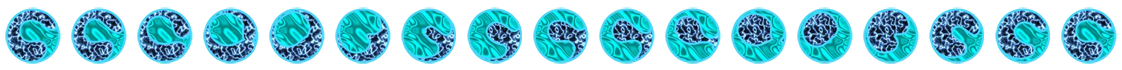
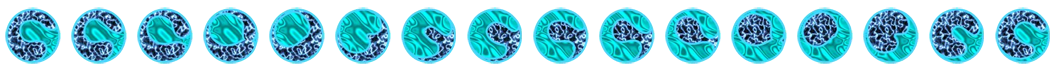
Arrumei umas coisas na animacao

diff --git a/src/Animation.cpp b/src/Animation.cpp
@@ -9,7 +9,7 @@ using std::string;
 Animation::Animation (
 	const string& filename,
 	int frame,
-	int framesize,
+	int fps,
 	int rows,
 	int cols,
 	bool matrix,
@@ -22,58 +22,42 @@ Animation::Animation (
 		frame = 0;
 	else
 		this->frame = float ( frame );
-	setFrameSize ( framesize );
+	this->fps = ((fps >= 1) ? fps : 1);
 	
 	update_ ();
 }
 
 void Animation::update ()
 {
-	float dt = float ( SDLBase::dt () ) / 1000;
-	
-	frame = ( ( frame + fps * dt ) - float (
-		( int ( frame + fps * dt ) / frameAmount() ) * frameAmount()
-	) );
-	
-	update_ ();
+	frame += fps*float(SDLBase::dt())/1000;
+	if (frame >= cols)
+		frame -= cols;
+	update_();
 }
 
 void Animation::update_ ()
 {
 	clip (
-		( int ( frame ) % cols ) * ( src->w / cols ),
-		(	( ( !matrix ) * ( int ( frame ) / cols ) + matrix * line ) *
-			( src->h / rows )	),
-		( src->w / cols ),
-		( src->h / rows )
+		(int(frame)%cols)*(src->w/cols),
+		((!matrix)*(int(frame)/cols)+(matrix*line))*(src->h/rows),
+		src->w/cols,
+		src->h/rows
 	);
 }
 
-int Animation::frameAmount () const
-{
-	return( ( matrix * cols ) + ( ( !matrix ) * ( rows * cols ) ) );
-}
+int Animation::frameAmount () const { return ((matrix*cols) + ((!matrix)*(rows*cols))); }
+int Animation::getFrame() const { return frame; }
+int Animation::getFPS() const { return fps; }
 
-int Animation::getFrame () const
-{
-	return int ( frame );
-}
-
-int Animation::getFrameSize () const
-{
-	return int ( 1000.0f / fps );
-}
-
-void Animation::setFrame (int frame)
+void Animation::setFrame(int frame)
 {
 	if( ( !matrix ) || ( frame < cols ) )
 	{
 		this->frame = float ( frame );
-		update_ ();
+		update_();
 	}
 }
 
-void Animation::setFrameSize (int framesize)
-{
-	fps = 1000.0f / float ( framesize );
+void Animation::setFPS(int fps) {
+	this->fps = ((fps >= 1) ? fps : 1);
 }

diff --git a/src/Animation.hpp b/src/Animation.hpp
@@ -19,24 +19,24 @@ public:
 	Animation (
 		const std::string& filename,
 		int frame,
-		int framesize,
+		int fps,
 		int rows,
 		int cols,
 		bool matrix = false,
 		int line = 0
 	);
 	
-	void update ();
+	void update();
 private:
-	void update_ ();
+	void update_();
 	
-	int frameAmount () const;
+	int frameAmount() const;
 public:
-	int getFrame () const;
-	int getFrameSize () const;
+	int getFrame() const;
+	int getFPS() const;
 	
-	void setFrame (int frame);
-	void setFrameSize (int framesize);
+	void setFrame(int frame);
+	void setFPS(int fps);
 };
 
 #endif

diff --git a/src/StateTest.cpp b/src/StateTest.cpp
@@ -8,7 +8,7 @@ Sprite* avatar;
 
 StateTest::StateTest(ArgsBase* args) {
 	bg = new Sprite("img/bg.png");
-	avatar = new Animation("img/avatar.png", 0, 143, 1, 17);
+	avatar = new Animation("img/avatar.png", 0, 7, 1, 16);
 }
 
 void StateTest::update() {
